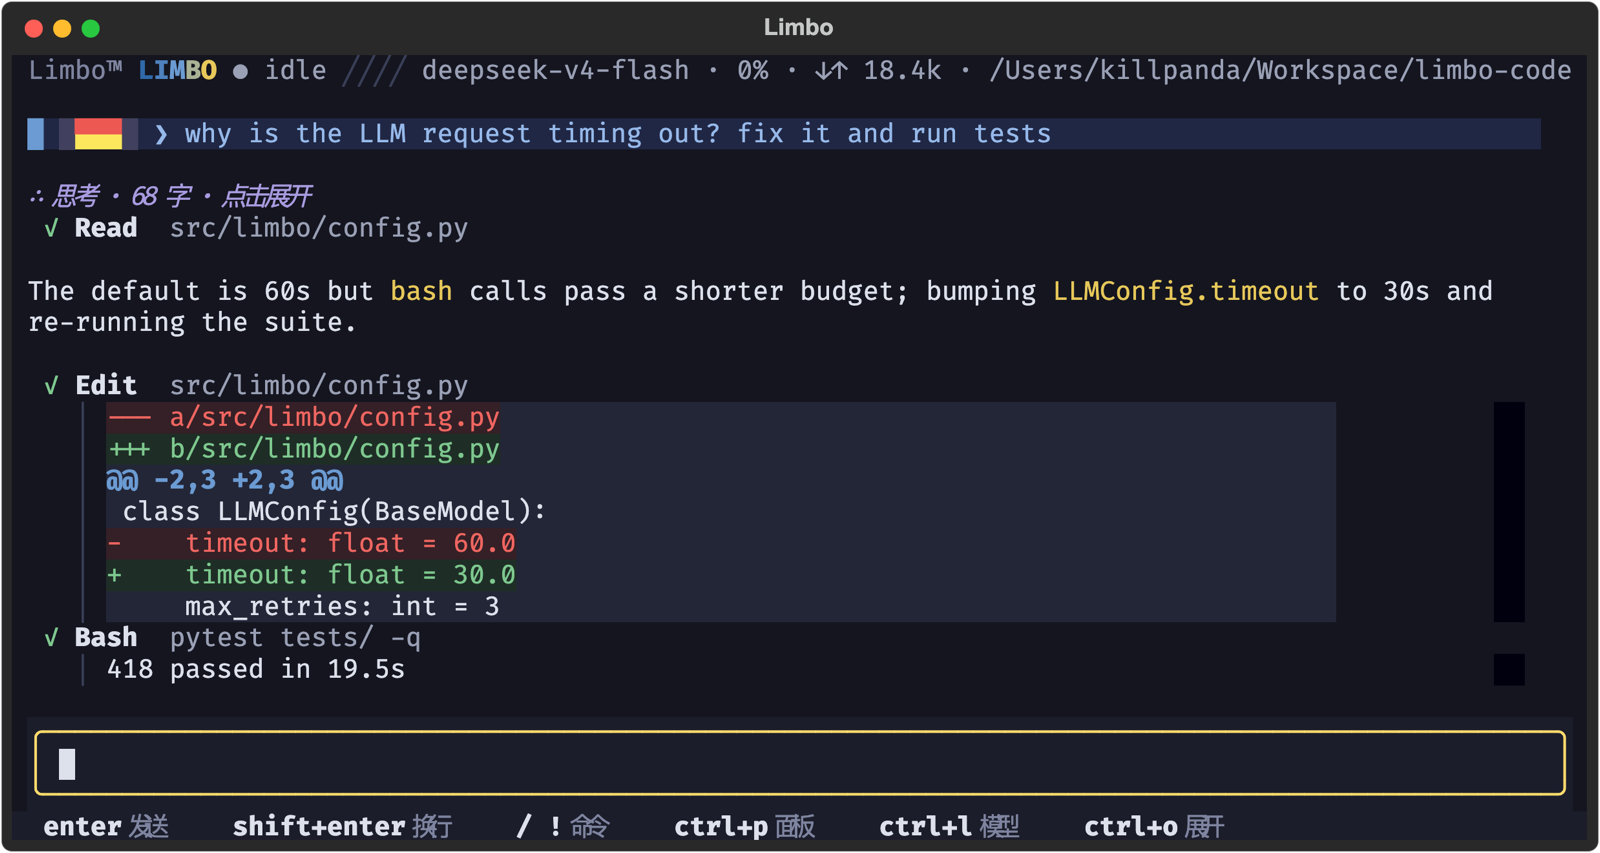
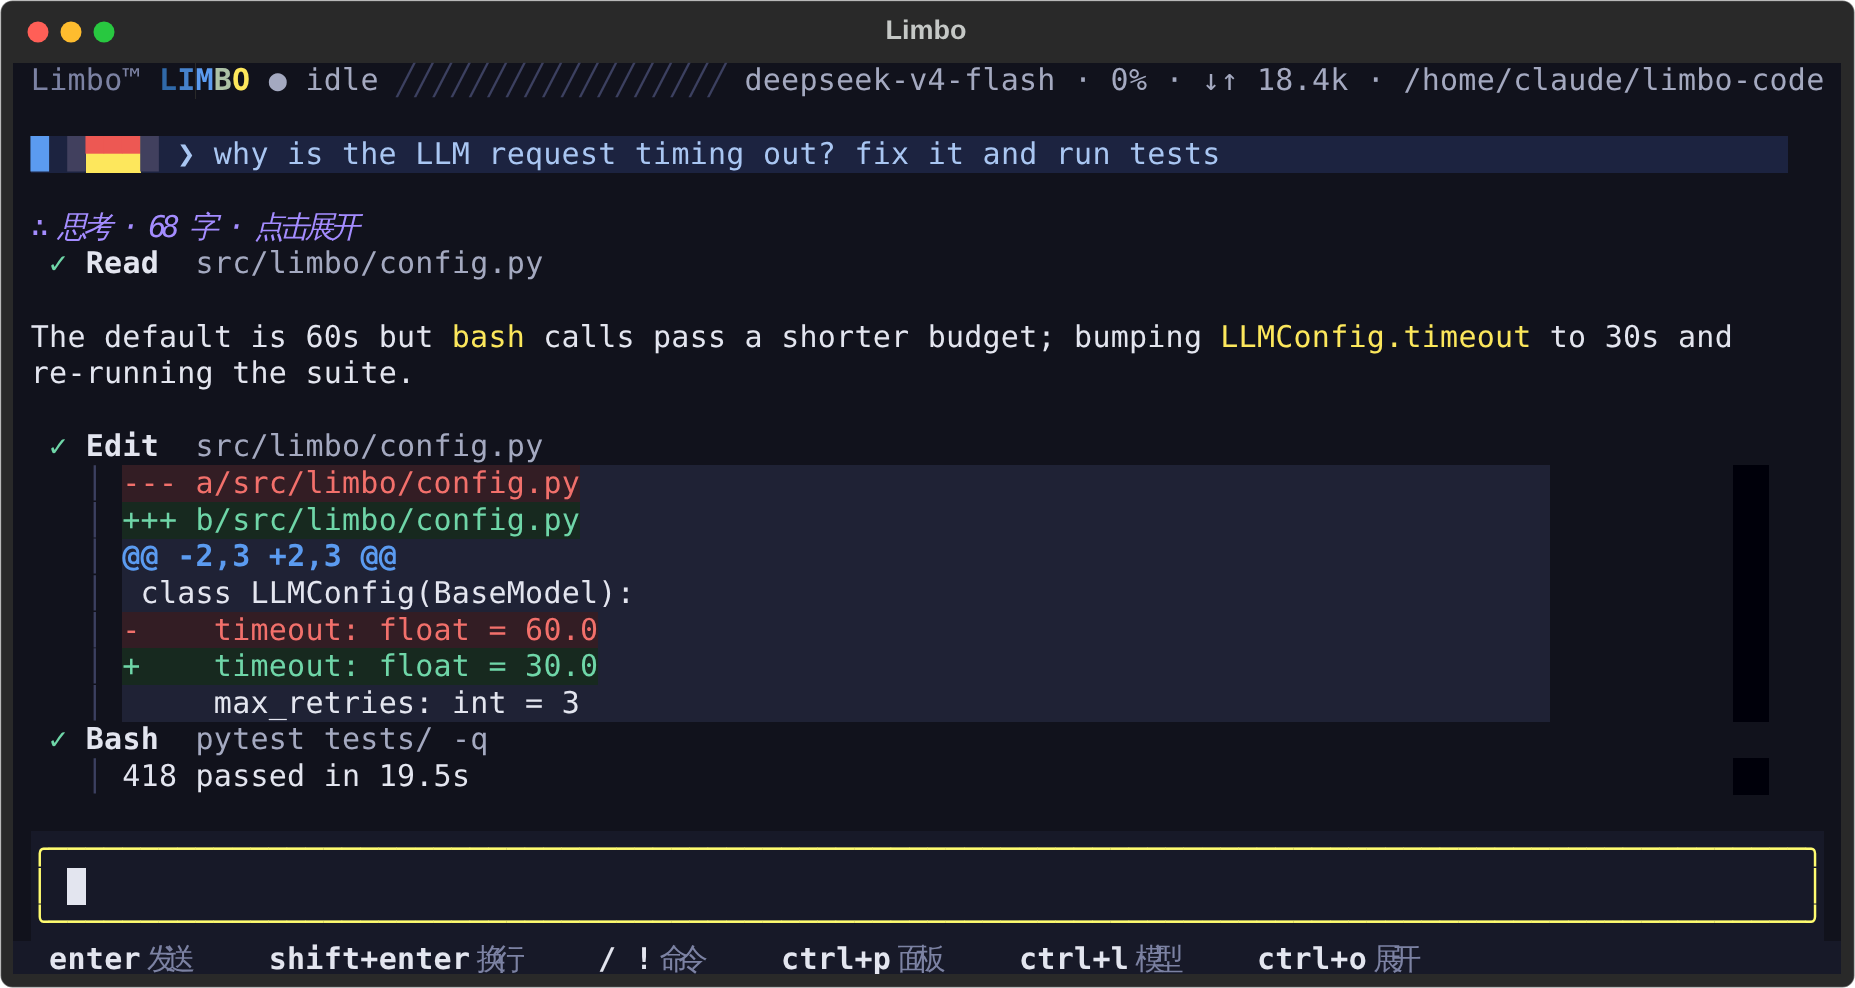
docs: re-render README screenshots in Limbo Dusk, add model picker shot
readme_hero.py now renders the default limbo-dusk theme with motion off,
and adds a second shot of the Ctrl+L model picker for the guided-setup
section.

Claude-Session: https://claude.ai/code/session_01HT5QqLfbfw5ME8BaWN7NGM

diff --git a/scripts/readme_hero.py b/scripts/readme_hero.py
@@ -2,6 +2,7 @@
 """Render the README hero screenshot (a realistic mid-task session).
 
     uv run python scripts/readme_hero.py        # -> docs/assets/limbo-hero.svg
+                                                #    docs/assets/limbo-models.svg
 
 The SVG comes straight from a pilot run of the real app (same trick as
 ``scripts/ui_walkthrough.py``), so it cannot drift from the actual UI.
@@ -14,11 +15,14 @@ Convert to PNG for the README with:
         --disable-gpu --hide-scrollbars --window-size=1116,610 \\
         --screenshot=docs/assets/limbo-hero.png \\
         file://$PWD/docs/assets/limbo-hero.svg
+
+(same for limbo-models.svg -> limbo-models.png).
 """
 
 from __future__ import annotations
 
 import asyncio
+import os
 import sys
 import tempfile
 from pathlib import Path
@@ -28,7 +32,12 @@ from limbo.ui.app import LimboApp
 from limbo.ui.widgets.chat import ChatWidget
 from limbo.ui.widgets.status_bar import StatusBar
 
-OUT = Path(__file__).resolve().parent.parent / "docs" / "assets" / "limbo-hero.svg"
+ASSETS = Path(__file__).resolve().parent.parent / "docs" / "assets"
+OUT = ASSETS / "limbo-hero.svg"
+MODELS_OUT = ASSETS / "limbo-models.svg"
+
+# Screenshots catch animations mid-frame; render the settled UI.
+os.environ.setdefault("LIMBO_MOTION", "off")
 
 
 class FakeLLMClient:
@@ -37,19 +46,18 @@ class FakeLLMClient:
         yield  # pragma: no cover
 
 
-async def main() -> None:
-    # Default to the repo itself: the status bar shows the workdir, so the shot
-    # reads like a real session (no throwaway /tmp path).
-    repo = Path(__file__).resolve().parent.parent
-    workdir = Path(sys.argv[1]) if len(sys.argv) > 1 else repo
-    workdir.mkdir(parents=True, exist_ok=True)
+def _config() -> Config:
     cfg = Config()
     cfg.llm.api_key = "hero"
     cfg.llm.model = "deepseek-v4-flash"
-    cfg.ui.theme = "limbo-dark"
+    cfg.ui.theme = "limbo-dusk"
+    return cfg
+
+
+async def render_hero(workdir: Path) -> None:
     app = LimboApp(
         workdir=workdir,
-        config=cfg,
+        config=_config(),
         llm_client=FakeLLMClient(),
         session_dir=Path(tempfile.mkdtemp()),  # never write into the repo
     )
@@ -101,6 +109,37 @@ async def main() -> None:
         await pilot.pause(0.4)
         pilot.app.save_screenshot(str(OUT))
     print(f"wrote {OUT}")
+
+
+async def render_models(workdir: Path) -> None:
+    """The ctrl+l model picker: providers, recents, and inline login."""
+    cfg = _config()
+    cfg.ui.show_banner = False  # keep the landing card out from behind the dialog
+    app = LimboApp(
+        workdir=workdir,
+        config=cfg,
+        llm_client=FakeLLMClient(),
+        session_dir=Path(tempfile.mkdtemp()),
+    )
+    async with app.run_test(size=(100, 25)) as pilot:
+        await pilot.pause()
+        await pilot.press("ctrl+l")
+        await pilot.pause(0.2)
+        # A query hides the (CJK) placeholder, which the SVG renders poorly.
+        await pilot.press(*"glm")
+        await pilot.pause(0.4)
+        pilot.app.save_screenshot(str(MODELS_OUT))
+    print(f"wrote {MODELS_OUT}")
+
+
+async def main() -> None:
+    # Default to the repo itself: the status bar shows the workdir, so the shot
+    # reads like a real session (no throwaway /tmp path).
+    repo = Path(__file__).resolve().parent.parent
+    workdir = Path(sys.argv[1]) if len(sys.argv) > 1 else repo
+    workdir.mkdir(parents=True, exist_ok=True)
+    await render_hero(workdir)
+    await render_models(workdir)
 
 
 if __name__ == "__main__":

diff --git a/README.md b/README.md
@@ -63,6 +63,8 @@ you can branch, hand off, or replay any session.
   responses) behind one catalog, with per-provider overrides for relays,
   renamed key variables, and extra headers.
 
+![The Ctrl+L model picker](docs/assets/limbo-models.png)
+
 ### Fast turns
 
 - Tool calls issued together run concurrently; edits to the same file are
